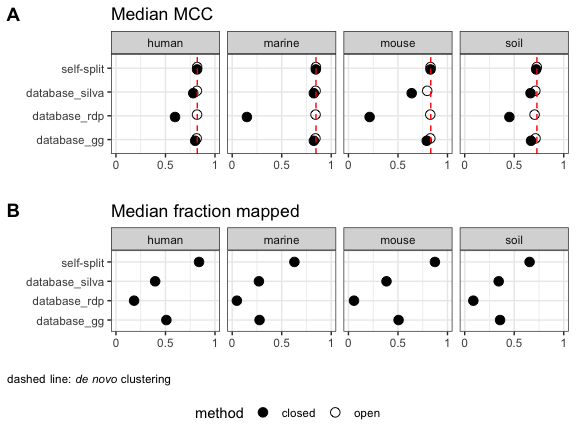
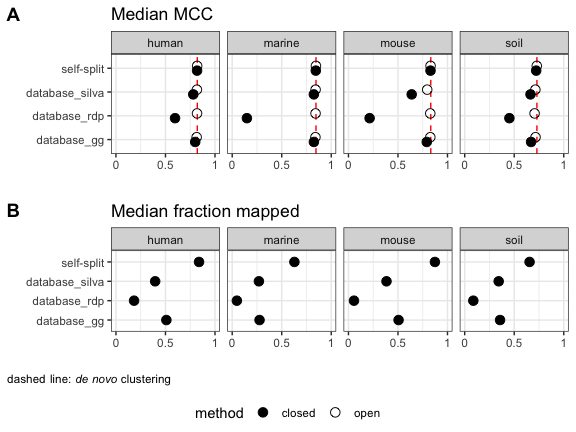
Increase dodge width

diff --git a/exploratory/2021/compare-strategies_2021-05.md b/exploratory/2021/compare-strategies_2021-05.md
@@ -179,11 +179,11 @@ plot_quality <- function(dat, y_val, title = '') {
 }
 mcc_plot <- sum_optifit %>% 
   plot_quality(mcc_median, title = 'Median MCC') +
-    geom_point(size = 3,
-               position = position_dodge(width = 0.2)) +
     geom_hline(data = sum_opticlust, 
                aes(yintercept = mcc_median), 
-               linetype = 'dashed', color = 'red')
+               linetype = 'dashed', color = 'red') +
+    geom_point(size = 3,
+               position = position_dodge(width = 0.4))
 frac_plot <- sum_optifit %>% filter(method == 'closed') %>% 
   plot_quality(frac_map_median, title = 'Median fraction mapped')  + 
     geom_point(size = 3) +
